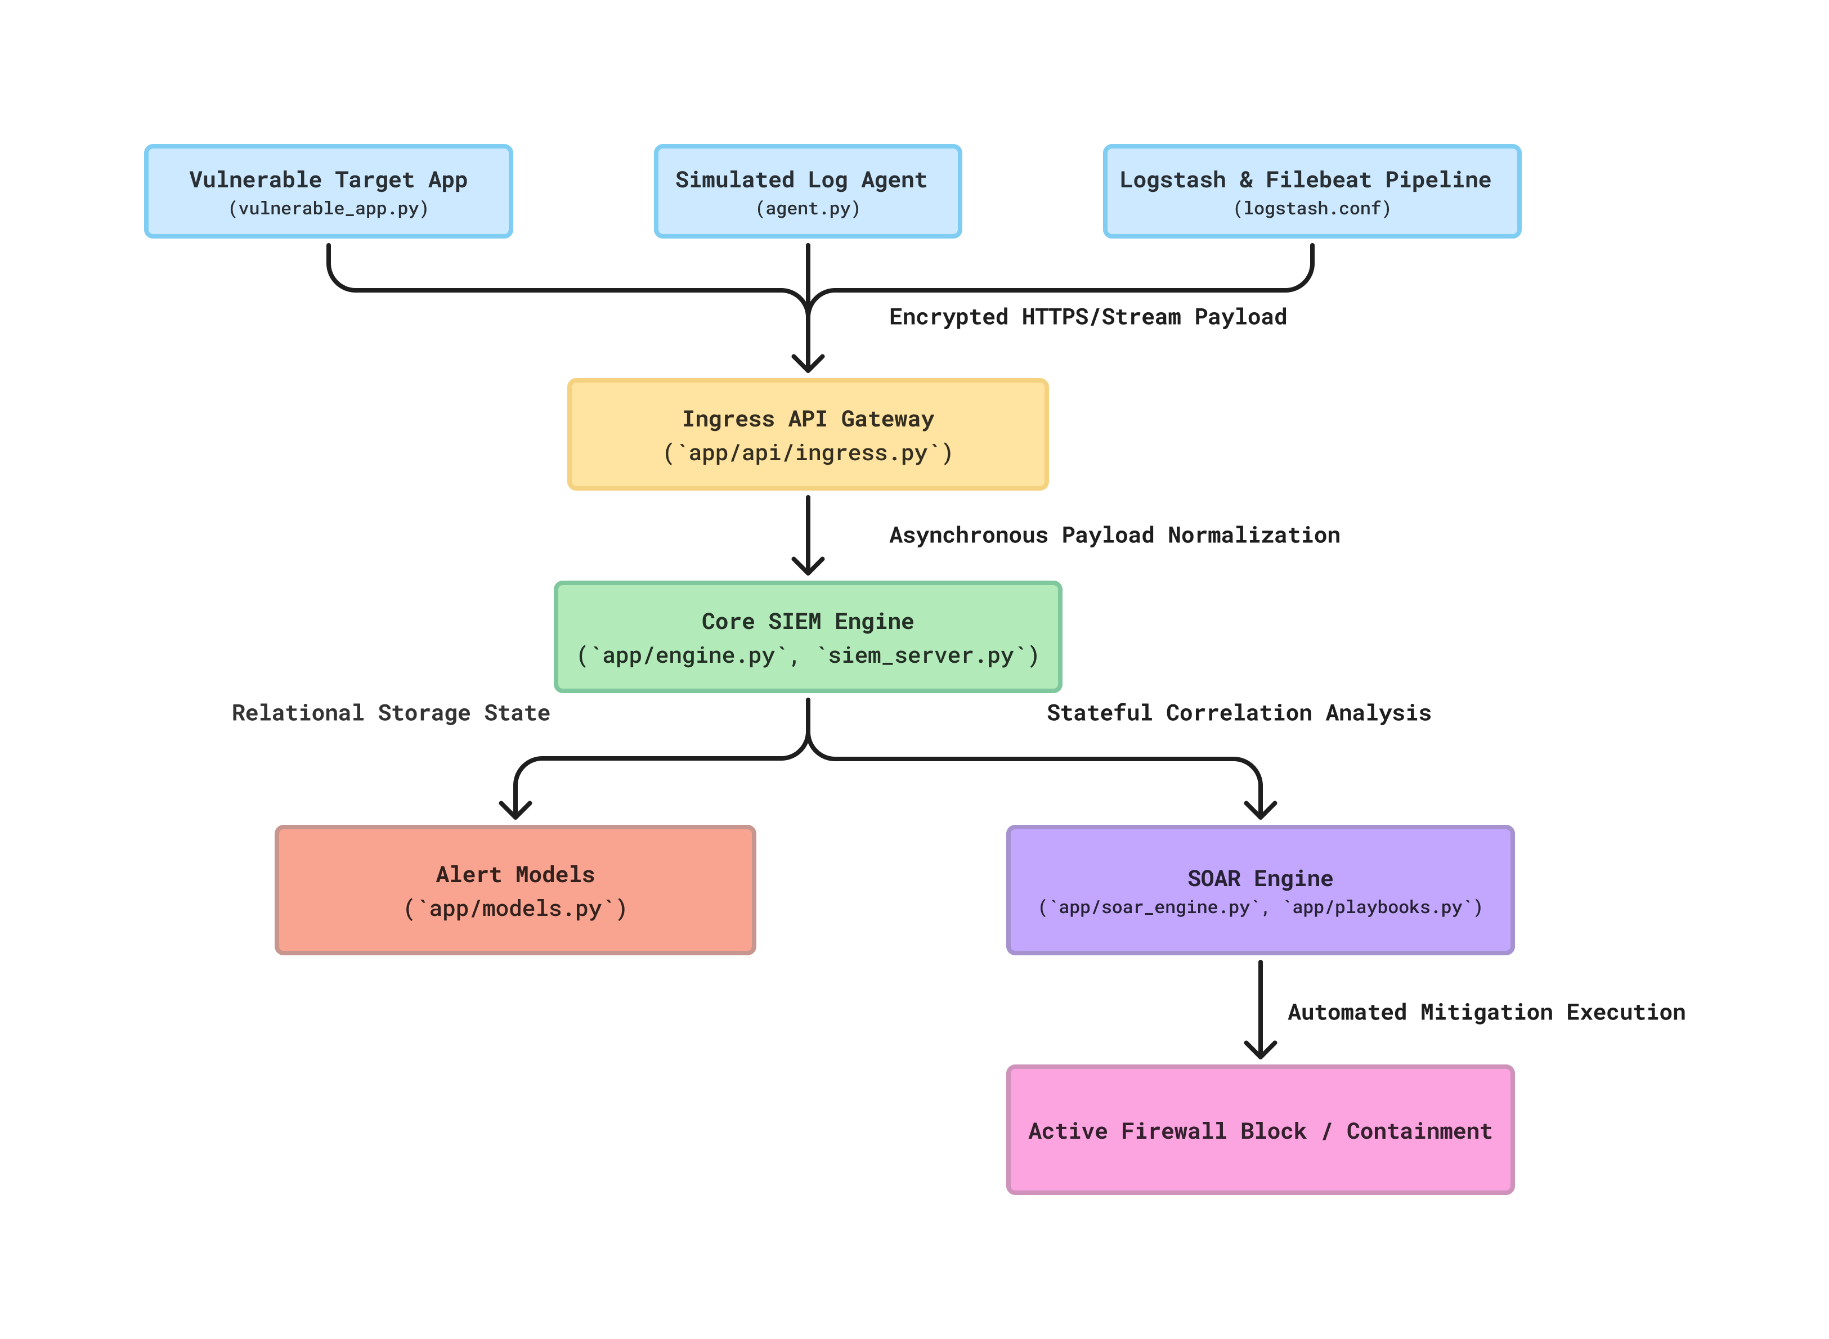
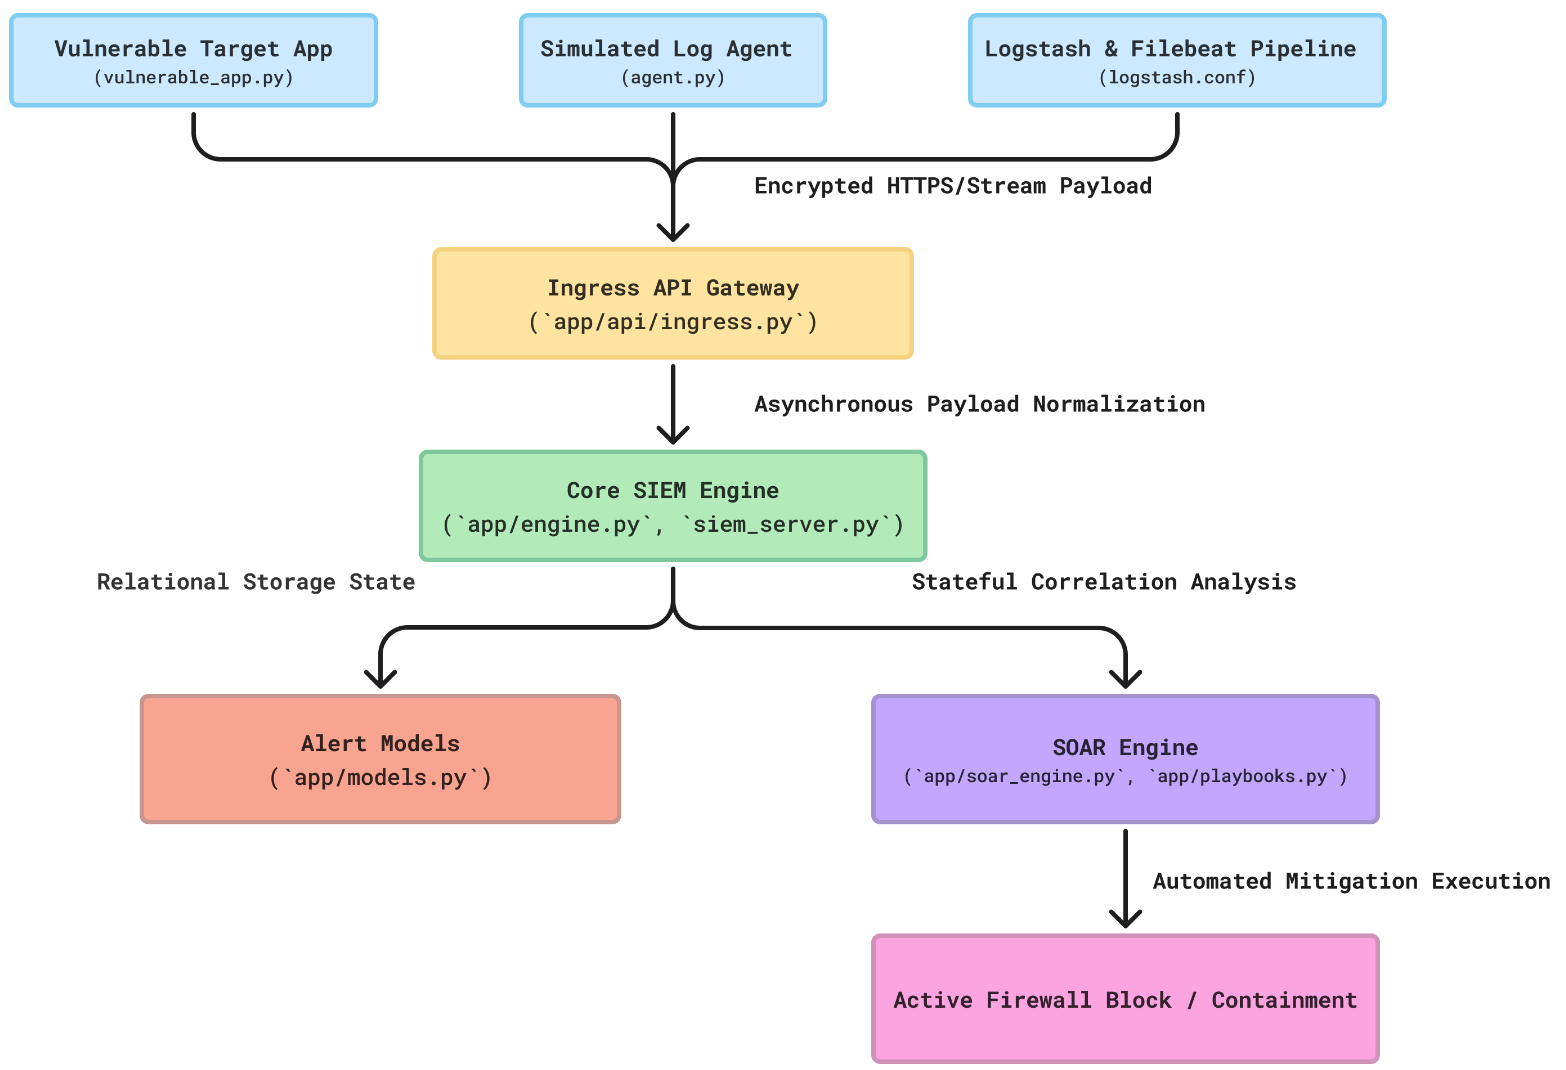
Enhance LaTeX document with additional packages for improved figure and table formatting

diff --git a/main.tex b/main.tex
@@ -25,13 +25,16 @@
 \titlespacing*{\chapter}{0pt}{-25pt}{12pt}
 \titlespacing*{\section}{0pt}{10pt}{6pt}
 \titlespacing*{\subsection}{0pt}{8pt}{4pt}
-
+\usepackage{caption}              % For customizing figure and table captions
+\captionsetup[table]{skip=10pt}
+\usepackage{array}                %
 \usepackage{tikz}                 %This package is for borders
 \usetikzlibrary{calc}
 \usepackage{eso-pic}              %This is also for borders
 \usepackage{tabularx}             % For tables with wrapping columns
 \usepackage{xurl}                 % For graceful URL line breaks
 \usepackage[most]{tcolorbox}      % For highlighted engineering trade-off callouts
+\usetikzlibrary{positioning}      %For positioning nodes in diagrams
 
 % ========================================
 % Page Border
@@ -330,24 +333,29 @@ Within a major national infrastructure asset like Numaligarh Refinery Limited (N
 To study and evaluate these complex enterprise-scale security dynamics in a practical setting, this study develops a containerized Proof-of-Concept (PoC) simulation sandbox alongside the architectural review of NRL's production environment. The PoC sandbox replicates these enterprise controls in a controlled lab environment, establishing a closed-loop defensive pipeline.
 
 \begin{figure}[htbp]
-\centering
-\begin{tikzpicture}[>=stealth, 
-  stepblock/.style={rectangle, draw, fill=blue!5, text width=2.4cm, align=center, rounded corners, minimum height=1.2cm, font=\small}]
-  
-  \node[stepblock] (ingest) at (0,0) {Ingestion\\(\texttt{log\_collector.py})};
-  \node[stepblock] (norm) at (3.3,0) {Normalization\\(\texttt{ingress.py})};
-  \node[stepblock] (correlate) at (6.6,0) {Correlation\\(\texttt{engine.py})};
-  \node[stepblock] (orchestrate) at (9.9,0) {Orchestration\\(\texttt{siem\_server.py})};
-  \node[stepblock] (contain) at (13.2,0) {Containment\\(\texttt{block\_ip} Playbook)};
-  
-  \draw[->, thick] (ingest) -- (norm);
-  \draw[->, thick] (norm) -- (correlate);
-  \draw[->, thick] (correlate) -- (orchestrate);
-  \draw[->, thick] (orchestrate) -- (contain);
-  \draw[->, thick, dashed] (contain) .. controls (6.6, -1.8) .. (ingest);
-\end{tikzpicture}
-\caption{The closed-loop SIEM and SOAR sandbox execution pipeline.}
-\label{fig:siem-soar-loop}
+  \centering % Keeps it centered relative to your shift
+  \hspace*{-1cm} % <--- Adjust this negative value to move it left
+  \resizebox{\linewidth}{!}{%
+    \begin{tikzpicture}[>=stealth, 
+      stepblock/.style={rectangle, draw, fill=blue!5, text width=2.8cm, align=center, rounded corners, minimum height=1.2cm, font=\small}]
+      
+      \begin{scope}[node distance=0.8cm]
+        \node[stepblock, text width=3.5cm] (ingest) {Ingestion\\(\texttt{log\_collector.py})};
+        \node[stepblock, right=of ingest] (norm) {Normalization\\(\texttt{ingress.py})};
+        \node[stepblock, right=of norm] (correlate) {Correlation\\(\texttt{engine.py})};
+        \node[stepblock, text width=3.4cm, right=of correlate] (orchestrate) {Orchestration\\(\texttt{siem\_server.py})};
+        \node[stepblock, right=of orchestrate] (contain) {Containment\\(\texttt{block\_ip} Playbook)};
+      \end{scope}
+      
+      \draw[->, thick] (ingest) -- (norm);
+      \draw[->, thick] (norm) -- (correlate);
+      \draw[->, thick] (correlate) -- (orchestrate);
+      \draw[->, thick] (orchestrate) -- (contain);
+      \draw[->, thick, dashed] (contain) .. controls ([yshift=-1.5cm]correlate.south) .. (ingest);
+    \end{tikzpicture}%
+  }
+  \caption{The closed-loop SIEM and SOAR sandbox execution pipeline.}
+  \label{fig:siem-soar-loop}
 \end{figure}
 
 The transition from signature-based host defense to behavior-based Next-Gen EDR/XDR is a cornerstone of this posture, as outlined in Table~\ref{tab:av-vs-edr}.
@@ -673,9 +681,9 @@ The corporate security landscape has experienced major structural changes driven
 \centering
 \caption{SIEM and SOAR Platform Benchmarking}
 \label{tab:platform-comparison}
+\renewcommand{\arraystretch}{1.3}
 \footnotesize
-\begin{tabularx}{\textwidth}{|p{2.5cm}|X|X|X|X|}
-\hline
+\begin{tabularx}{\textwidth}{|>{\raggedright\arraybackslash}p{2.2cm}|>{\raggedright\arraybackslash}X|>{\raggedright\arraybackslash}X|>{\raggedright\arraybackslash}X|>{\raggedright\arraybackslash}X|}\hline
 Platform Name & Deployment Type & System Architecture & Advanced Detection \& SOAR Approach & Primary Architectural Trade-off \\ \hline
 Splunk Enterprise Security & Commercial Enterprise & Centralised heavy ingestion \& index search cluster & Stateful rule mapping + UEBA; Integrated Splunk SOAR / Phantom playbooks & High licensing costs scaling linearly with daily log volume. \\ \hline
 Elastic Security & Commercial (Open Core) & Elasticsearch data nodes + Logstash/Filebeat pipeline + Kibana UI & EQL-based correlation rules + Machine Learning; Webhook-driven alerts & High ingest speed; complex cluster setup and resource footprint. \\ \hline
@@ -1297,28 +1305,67 @@ The dashboard verifies the SOC visibility layer and demonstrates how the simulat
   \item Enterprise mapping to FortiAnalyzer, Airtel iSOC, and Dark Web enrichment contexts.
 \end{itemize}
 
-\section{System Evaluation Summary \& Key Performance Metrics}
+\subsection{System Evaluation Summary \& Key Performance Metrics}
 
 The benchmarked performance confirms why machine-speed SOAR mitigation is essential in a large critical infrastructure environment.
 
-\renewcommand{\arraystretch}{1.3}
 \begin{table}[htbp]
 \centering
+\vspace{6pt}
 \caption{Operational MTTD and MTTR Performance Metrics}
-\label{tab:performance-metrics}
-\footnotesize
-\begin{tabularx}{\textwidth}{|X|p{4cm}|p{3cm}|p{3.5cm}|}
+\label{tab:operational-metrics}
+\vspace{6pt}
+
+\renewcommand{\arraystretch}{1.3}
+% Using tabularx to keep it perfectly within margins, with raggedright to prevent weird word spacing
+\begin{tabularx}{\textwidth}{|>{\raggedright\arraybackslash}p{3.2cm}|>{\raggedright\arraybackslash}X|>{\raggedright\arraybackslash}X|>{\raggedright\arraybackslash}X|}
 \hline
-Performance Metric & Manual Triage Baseline (Estimated) & Automated Platform Execution & Performance Gain \\ \hline
-Mean Time to Detect (MTTD) & 5 to 15 minutes & $< 2.5$ seconds & $> 99\%$ reduction \\ \hline
-Mean Time to Respond (MTTR) & 10 to 30 minutes & $< 1.2$ seconds & $> 99\%$ reduction \\ \hline
-Log Processing Throughput & Manual review ($\approx 10$ logs/min) & $\geq 2500$ logs/second & $> 15000\%$ increase \\ \hline
-Playbook Execution Latency & Manual firewall setup (5 to 10 min) & $< 800$ milliseconds & Near-instant containment \\ \hline
+\textbf{Performance Metric} & \textbf{Manual Triage Baseline (Estimated)} & \textbf{Automated Platform Execution} & \textbf{Performance Gain} \\ \hline
+
+Mean Time to Detect (MTTD) & 5 to 15 minutes & $<$ 2.5 seconds & $>$ 99\% reduction \\ \hline
+
+Mean Time to Respond (MTTR) & 10 to 30 minutes & $<$ 1.2 seconds & $>$ 99\% reduction \\ \hline
+
+Log Processing Throughput & Manual review ($\approx$ 10 logs/min) & $\geq$ 2500 logs/second & $>$ 15000\% increase \\ \hline
+
+Playbook Execution Latency & Manual firewall setup (5 to 10 min) & $<$ 800 milliseconds & Near-instant containment \\ \hline
 \end{tabularx}
 \end{table}
 
 These results provide the concrete justification for the integrated SIEM/SOAR design: in a refinery or similar critical infrastructure environment, even a few minutes of uncontrolled attack propagation can expose safety-critical systems to unacceptable risk.
 
+\vspace{12pt}
+\subsubsection*{Supporting Performance Calculations}
+
+To ensure accuracy, all baseline units are converted into the same units as the automated platform (seconds or logs/second) using the most conservative manual estimates.
+
+\begin{itemize}
+    \item \textbf{Mean Time to Detect (MTTD) Reduction:} \\
+    Using the conservative 5-minute (300 seconds) manual baseline against the 2.5-second automated detection:
+    \[
+    \text{Percentage Reduction} = \left( \frac{300 - 2.5}{300} \right) \times 100 = \left( \frac{297.5}{300} \right) \times 100 \approx 99.16\%
+    \]
+    
+    \item \textbf{Mean Time to Respond (MTTR) Reduction:} \\
+    Using the conservative 10-minute (600 seconds) manual baseline against the 1.2-second automated response:
+    \[
+    \text{Percentage Reduction} = \left( \frac{600 - 1.2}{600} \right) \times 100 = \left( \frac{598.8}{600} \right) \times 100 = 99.80\%
+    \]
+    
+    \item \textbf{Log Processing Throughput Speedup:} \\
+    Normalizing the manual review rate to logs per second yields roughly 0.1667 logs/sec ($10 \text{ logs} / 60 \text{ seconds}$). 
+    \[
+    \text{Speedup Factor} = \frac{2500 \text{ logs/sec}}{10 / 60 \text{ logs/sec}} = \frac{2500 \times 60}{10} = 15,000\text{x faster}
+    \]
+    \textit{Note: The table denotes a $>15000\%$ increase, which reflects the 15,000x multiplier scale.}
+    
+    \item \textbf{Playbook Execution Latency:} \\
+    Using the conservative 5-minute (300 seconds) manual baseline against the 800-millisecond (0.8 seconds) automated execution:
+    \[
+    \text{Fraction of Original Time} = \frac{0.8 \text{ seconds}}{300 \text{ seconds}} \approx 0.0026
+    \]
+    The automated playbook executes in approximately \textbf{0.26\%} of the time it takes to do it manually, justifying the ``Near-instant containment'' designation.
+\end{itemize}
 \newpage
 \chapter{ENGINEERING CHALLENGES \& DESIGN TRADE-OFFS}
 
